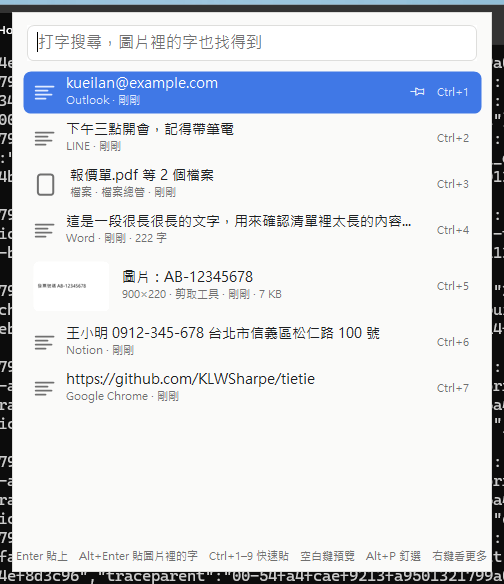
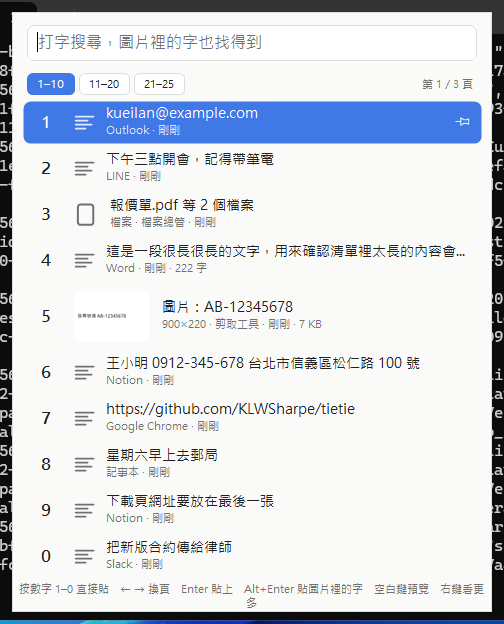
說明文件：新版截圖（號碼在左邊、分頁）、加上按數字直接貼與最多 1000 筆

diff --git a/docs/安裝教學.md b/docs/安裝教學.md
@@ -59,7 +59,7 @@
 1. 隨便選一段字，按 `⌘C` 複製。再複製另一段。
 2. 打開「備忘錄」，在空白的地方點一下，讓游標在那裡閃。
 3. 按 `⇧⌘V`（同時按 Shift、Command、V），畫面中間會跳出清單，剛剛複製的兩段都在裡面。
-4. 用上下鍵選一筆，按 Enter，它就會貼進備忘錄。剛才沒開自動貼上的話，會看到「已複製」，再按一次 `⌘V` 就會貼上。
+4. 看每一筆左邊的號碼，直接按那個數字（或用上下鍵選一筆按 Enter），它就會貼進備忘錄。剛才沒開自動貼上的話，會看到「已複製」，再按一次 `⌘V` 就會貼上。
 
 完整的快捷鍵在[說明頁](../README.md#怎麼用)。
 

diff --git a/README.md b/README.md
@@ -14,6 +14,8 @@
 
 ## 它能做什麼
 
+- **看到第幾個，就按數字幾**：每一筆左邊都有號碼，叫出清單後直接按 1 到 9、0，就貼上那一筆。
+- **記很多筆也找得到**：預設最多記 1000 筆，一頁 10 筆，按 ← → 換頁。
 - **記住文字、圖片、檔案**：截圖、複製的圖片都會留下來，不只有文字。檔案記的是位置，原檔搬走或刪掉後就貼不回去。
 - **圖片裡的字也搜得到**：複製一張有字的截圖，之後打關鍵字就能找到那張圖。
 - **圖片裡的字可以直接貼出來**：選到圖片按 ⌥Enter，或按右鍵選「貼上圖片裡的文字」，貼出來的是字不是圖。

diff --git a/docs/Windows安裝教學.md b/docs/Windows安裝教學.md
@@ -58,7 +58,7 @@ Windows 11 預設會把小圖示收起來。看不到的話，點工作列右下
 1. 隨便選一段字，按 `Ctrl + C` 複製。再複製另一段。
 2. 打開「記事本」，在空白的地方點一下，讓游標在那裡閃。
 3. 按 `Ctrl + Shift + V`，畫面中間會跳出清單，剛剛複製的兩段都在裡面。
-4. 用上下鍵選一筆，按 Enter，它就會貼進記事本。
+4. 看每一筆左邊的號碼，直接按那個數字（或用上下鍵選一筆按 Enter），它就會貼進記事本。
 
 ## 快捷鍵
 
